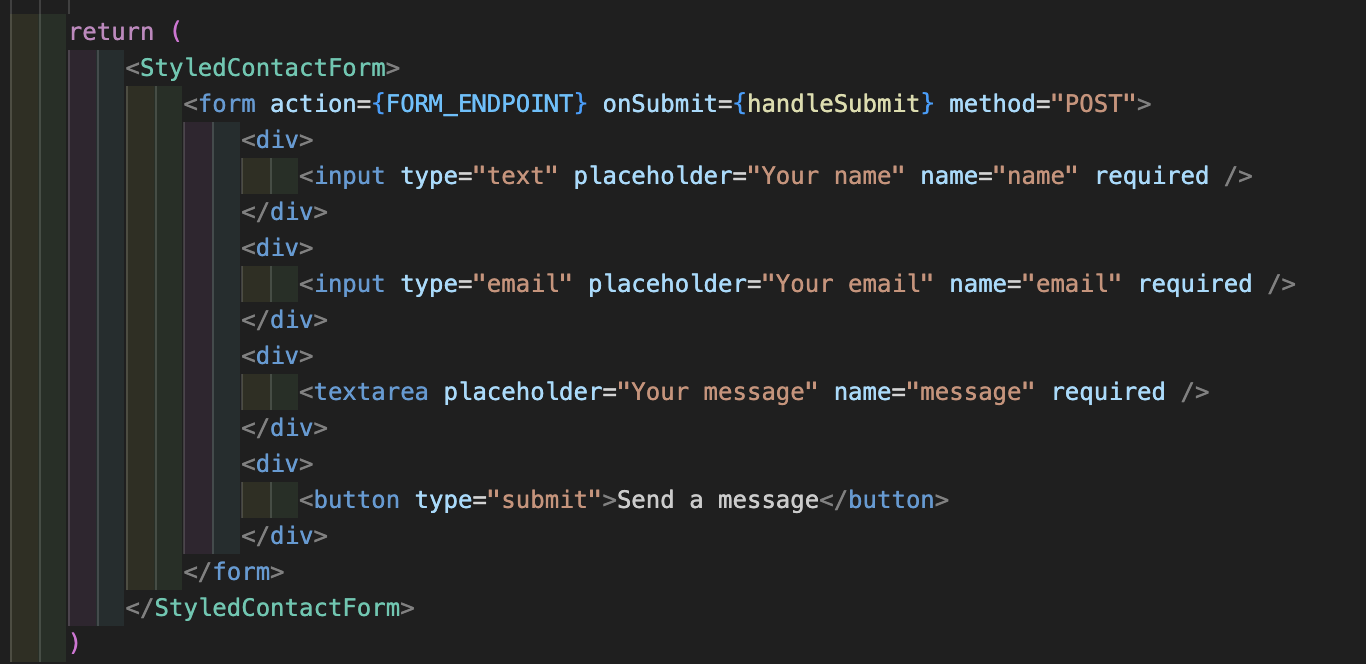
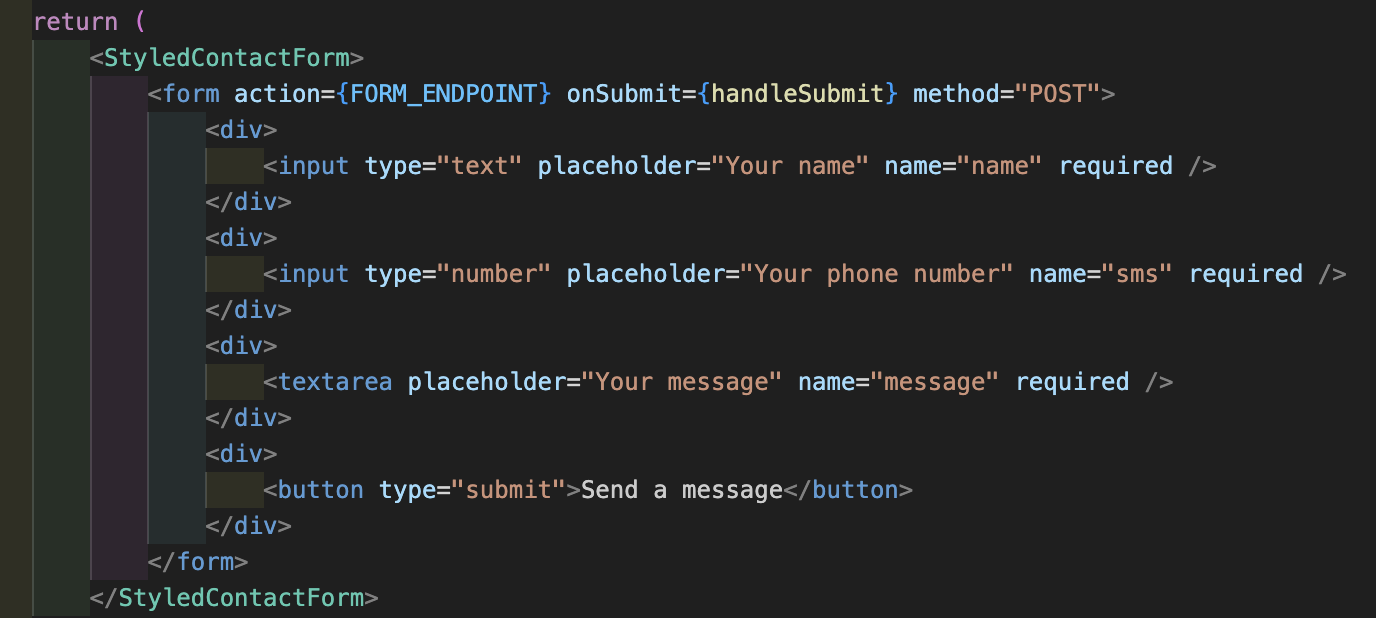
[UPDATE] Corrected email reference to SMS reference throughout project

Changed region(s): [[0.0, 0.0, 0.9839, 1.0]]

diff --git a/client/src/ResponseModal.jsx b/client/src/ResponseModal.jsx
@@ -3,21 +3,21 @@ import styled from "styled-components";
 
 // Creation of response modal component with spam detection flag tracked as prop
 const ResponseModal = ({ spamDetected }) => {
-	// Conditionally render email-block text if spam was detected from model
+	// Conditionally render message-block text if spam was detected from model
     if (spamDetected) {
         return (
         	<StyledResponseModal>
             	<h2>Uh-oh!</h2>
-            	<div>Your message may or may not contain spam content and has been auto-blocked. Please re-submit or try again later!</div>
+            	<div>Your message may or may not contain spam content and has been auto-blocked. Please try again later!</div>
           	</StyledResponseModal>
         )
     } 
-	// Conditionally render email-sent text if spam was not detected from model
+	// Conditionally render message-sent text if spam was not detected from model
 	else if (!spamDetected) {
         return (
         	<StyledResponseModal>
-            	<h2>Thanks!</h2>
-            	<div>We'll be in touch soon.</div>
+            	<h2>Thank you!</h2>
+            	<div>Text message has been sent successfully!</div>
           	</StyledResponseModal>
         )
     }

diff --git a/client/src/ContactForm.jsx b/client/src/ContactForm.jsx
@@ -54,7 +54,7 @@ const ContactForm = ({ setSubmitted, setSpamDetected }) => {
                     <input type="text" placeholder="Your name" name="name" required />
                 </div>
                 <div>
-                    <input type="email" placeholder="Your email" name="email" required />
+                    <input type="number" placeholder="Your phone number" name="sms" required />
                 </div>
                 <div>
                     <textarea placeholder="Your message" name="message" required />

diff --git a/README.md b/README.md
@@ -2,7 +2,7 @@
 
 In this showcase, we'll demonstrate the steps to architecting a full-stack machine learning classification project from scratch for a basic use case.
 
-Specifically, our use case will entail detecting and filtering spam content in emails (and potentially other text content). 
+Specifically, our use case will entail detecting and filtering spam content in text messages (and potentially other text content). 
 
 ---
 
